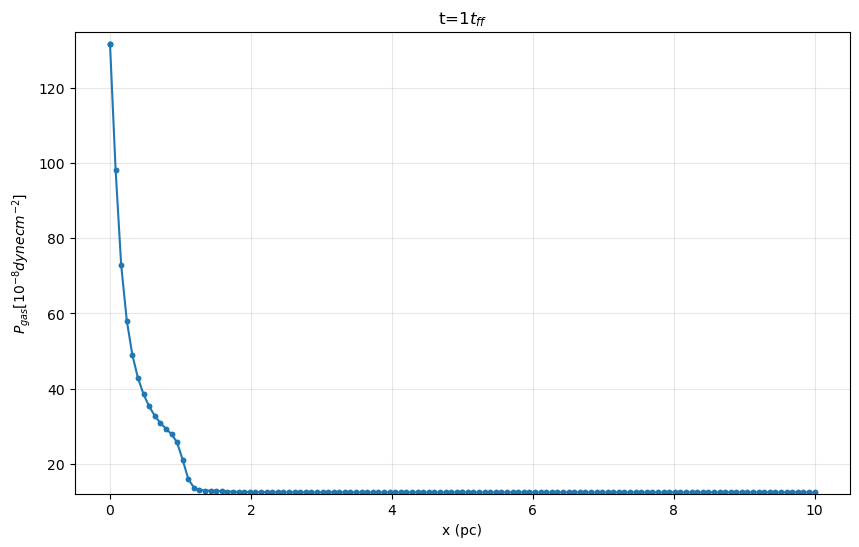
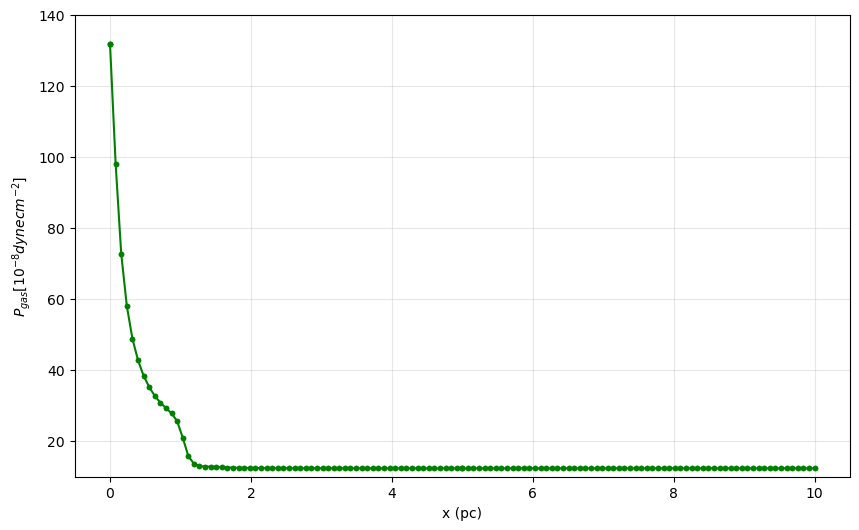
fixed 1D plots

diff --git a/vis/python/analyze_bin_2/data_processing.py b/vis/python/analyze_bin_2/data_processing.py
@@ -25,6 +25,8 @@ def extract_athenak_slice(user_params):
         variable=variable.split(":", 1)[1].strip()
         if variable == "temp":
             return extract_temp_slice(user_params)
+        elif variable == "velr":
+            return extract_radial_vel_slice(user_params)
     direction = user_params.get("direction", None)
     if direction in ('x1', '1'):
         dimension = 'x'
@@ -76,7 +78,6 @@ def extract_athenak_slice(user_params):
         
         num_ghost = int(input_data['mesh']['nghost'])
         num_variables_base = len(variable_names_base)
-        
         quantities_list = []
         extents_list = []
         file_size = f.seek(0, 2)
@@ -220,7 +221,23 @@ def extract_temp_slice(user_params):
         "num_blocks": pres_data_df['num_blocks'],
         "block_shape": pres_data_df['block_shape']
     }
-        
+
+def extract_radial_vel_slice(user_params):
+    vel_params = user_params.copy()
+    vel_params.update(variable="velx")
+    velx_data_df=extract_athenak_slice(vel_params)
+    velx_data = velx_data_df['df_quantities']
+    vel_params.update(variable="vely")
+    vely_data = extract_athenak_slice(vel_params)['df_quantities']
+    vel_params.update(variable="velz")
+    velz_data = extract_athenak_slice(vel_params)['df_quantities']
+    velr_data = np.sqrt(np.square(velx_data)+np.square(vely_data)+np.square(velz_data))
+    return {
+        "df_quantities": velr_data,
+        "df_extents": velx_data_df['df_extents'],
+        "num_blocks": velx_data_df['num_blocks'],
+        "block_shape": velx_data_df['block_shape']
+    }
 import numpy as np
 
 def stitch_meshblocks_to_global(data_dict, user_params):

diff --git a/vis/python/analyze_bin_2/plotting/plot_1d_profiles.py b/vis/python/analyze_bin_2/plotting/plot_1d_profiles.py
@@ -171,7 +171,7 @@ def plot_x_profile(data_dict, user_params):
     data_sorted = data_filtered[sort_idx]
 
     plt.figure(figsize=(10,6))
-    plt.plot(x_sorted, data_sorted, 'o-', markersize=3)
+    plt.plot(x_sorted, data_sorted, 'o-',color=user_params['color'], markersize=3)
     plt.ylim([
         user_params['clim'][0] or np.min(data_values),
         user_params['clim'][1] or np.max(data_values)
@@ -182,12 +182,15 @@ def plot_x_profile(data_dict, user_params):
     plt.grid(alpha=0.3)
     
     if user_params['variable']=="eint":
-        out_dir = Path(user_params['output_path'])/ "x_profile" / "pres" 
+        out_dir = Path(user_params['output_path'])/ "x_profile" / "pres"
+    elif user_params['variable'].startswith("derived:"):
+        variable=user_params['variable'].split(":", 1)[1].strip()
+        out_dir = Path(user_params['output_path'])/ "x_profile" / variable
     else:    
         out_dir = Path(user_params['output_path'])/ "x_profile" / user_params["variable"] 
     os.makedirs(out_dir, exist_ok=True)
     if user_params.get('loop_bin', False):
-        plt.title(f"t={user_params['slice_number']}"+r'$t_{ff}$')
+        # plt.title(f"t={user_params['slice_number']}"+r'$t_{ff}$')
         fname = os.path.join(out_dir, f"t_{user_params['slice_number']}.png")
     else:
         plt.title("x profile")

diff --git a/vis/python/analyze_bin_2/config.py b/vis/python/analyze_bin_2/config.py
@@ -4,15 +4,17 @@ default_dict={
     "input_file": "bondi_accr.hydro_w.00001.bin",
     "loop_bin": True,
     "dt": 0.1,
-    "variable": "derived:temp",
+    "variable": "derived:velr",
     "cmap":"viridis",
     # "cmap_label":r"$P_{gas} [10^{-8} dyne cm^{-2}]$",
-    "cmap_label":r"$T [K]$",
+    # "cmap_label":r"$\rho [100 m_p cm^{-3}]$",
+    # "cmap_label":r"$T [K]$",
+    "cmap_label":r"$|v_r| [100 km/s]$",
     "norm":"log",
     "direction": 'x3',
     "location":0,
     "extents": [None,None,None,None],
-    "clim": [1.0e7, 7.0e7],
+    "clim": [0.0, 1.2],
     # "clim": [None,None],
     "streamline_density": 5.0,
     "profile_variable":"x",
@@ -20,5 +22,6 @@ default_dict={
     "figsize":(16,4),
     "xlabel":"x (kpc)",
     "ylabel":"y (kpc)",
+    'color':"purple",
     "axes_scale":0.1
 }

diff --git a/vis/python/analyze_bin_2/menu.py b/vis/python/analyze_bin_2/menu.py
@@ -55,6 +55,7 @@ def build_params_for(analysis_type):
             "axes_scale":       {"prompt":"Scale Axis","default":default_dict['axes_scale'],"type":str},
             "cmap_label":   {"prompt":"Color label","default":default_dict['cmap_label'],"type":str},
             "clim":         {"prompt":"Colorbar limits: [vmin,vmax]","default":default_dict['clim'],"type":parse_int_list},
+            "color":   {"prompt":"Plot color","default":default_dict['color'],"type":str},
             })
     else:  # streamlines
         base.update({
